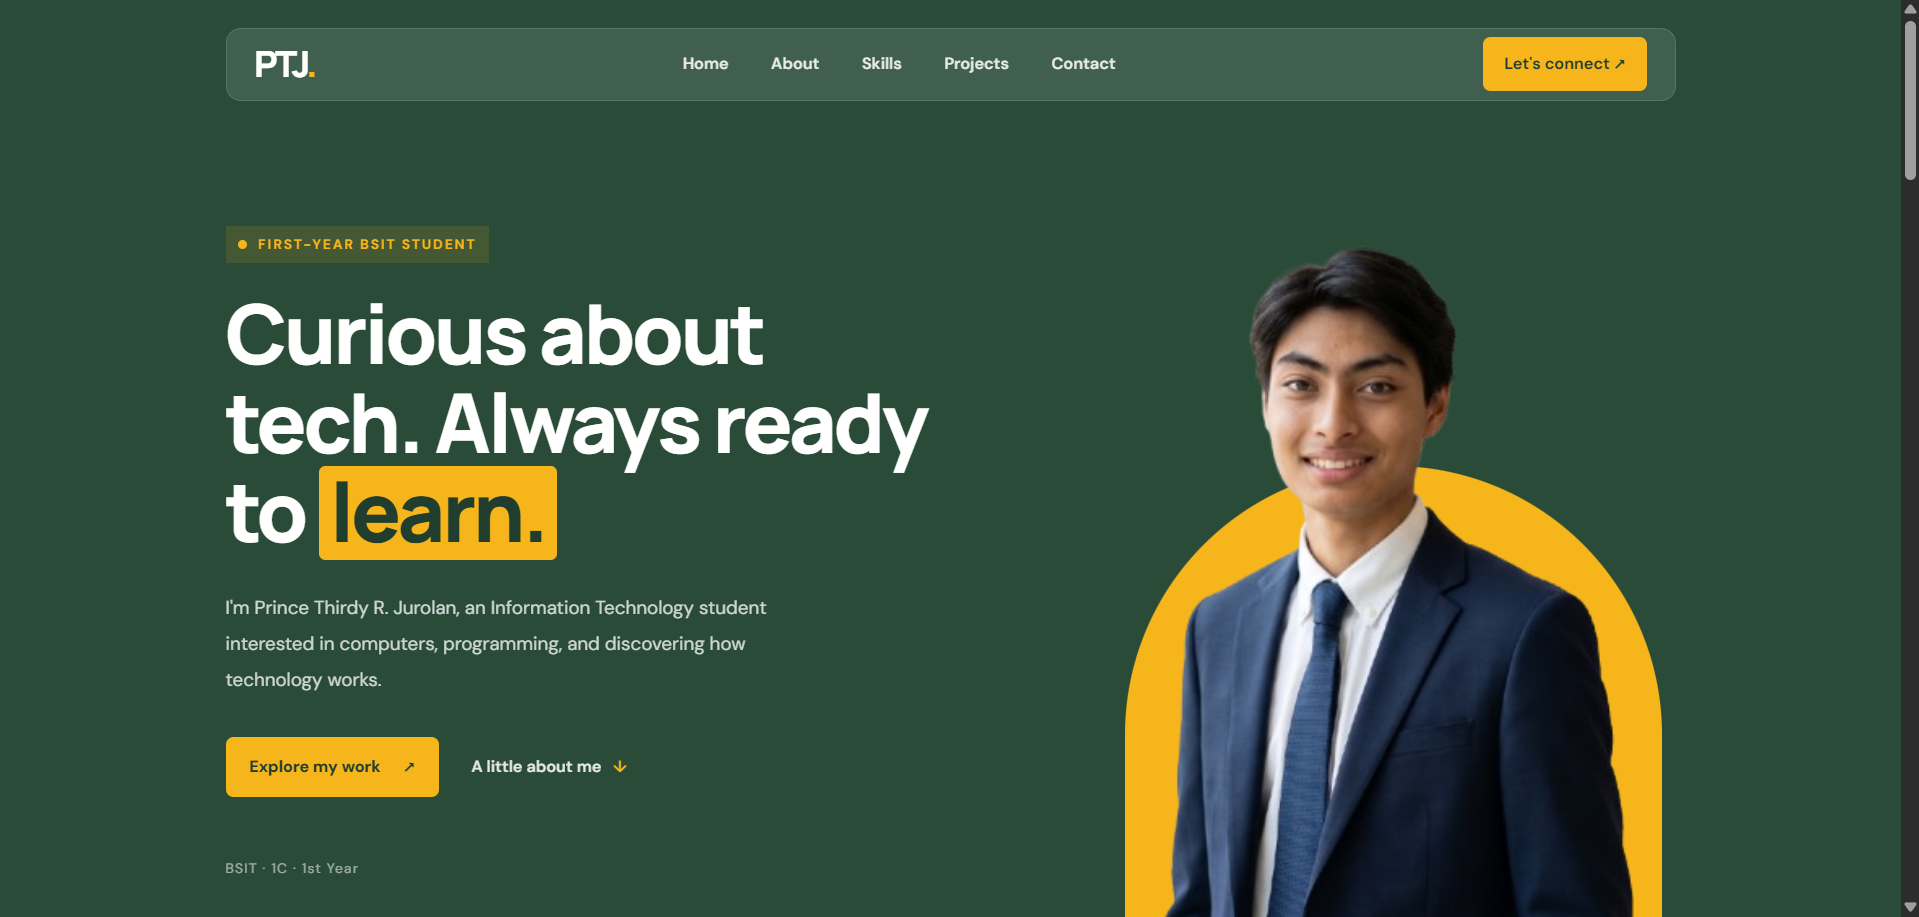
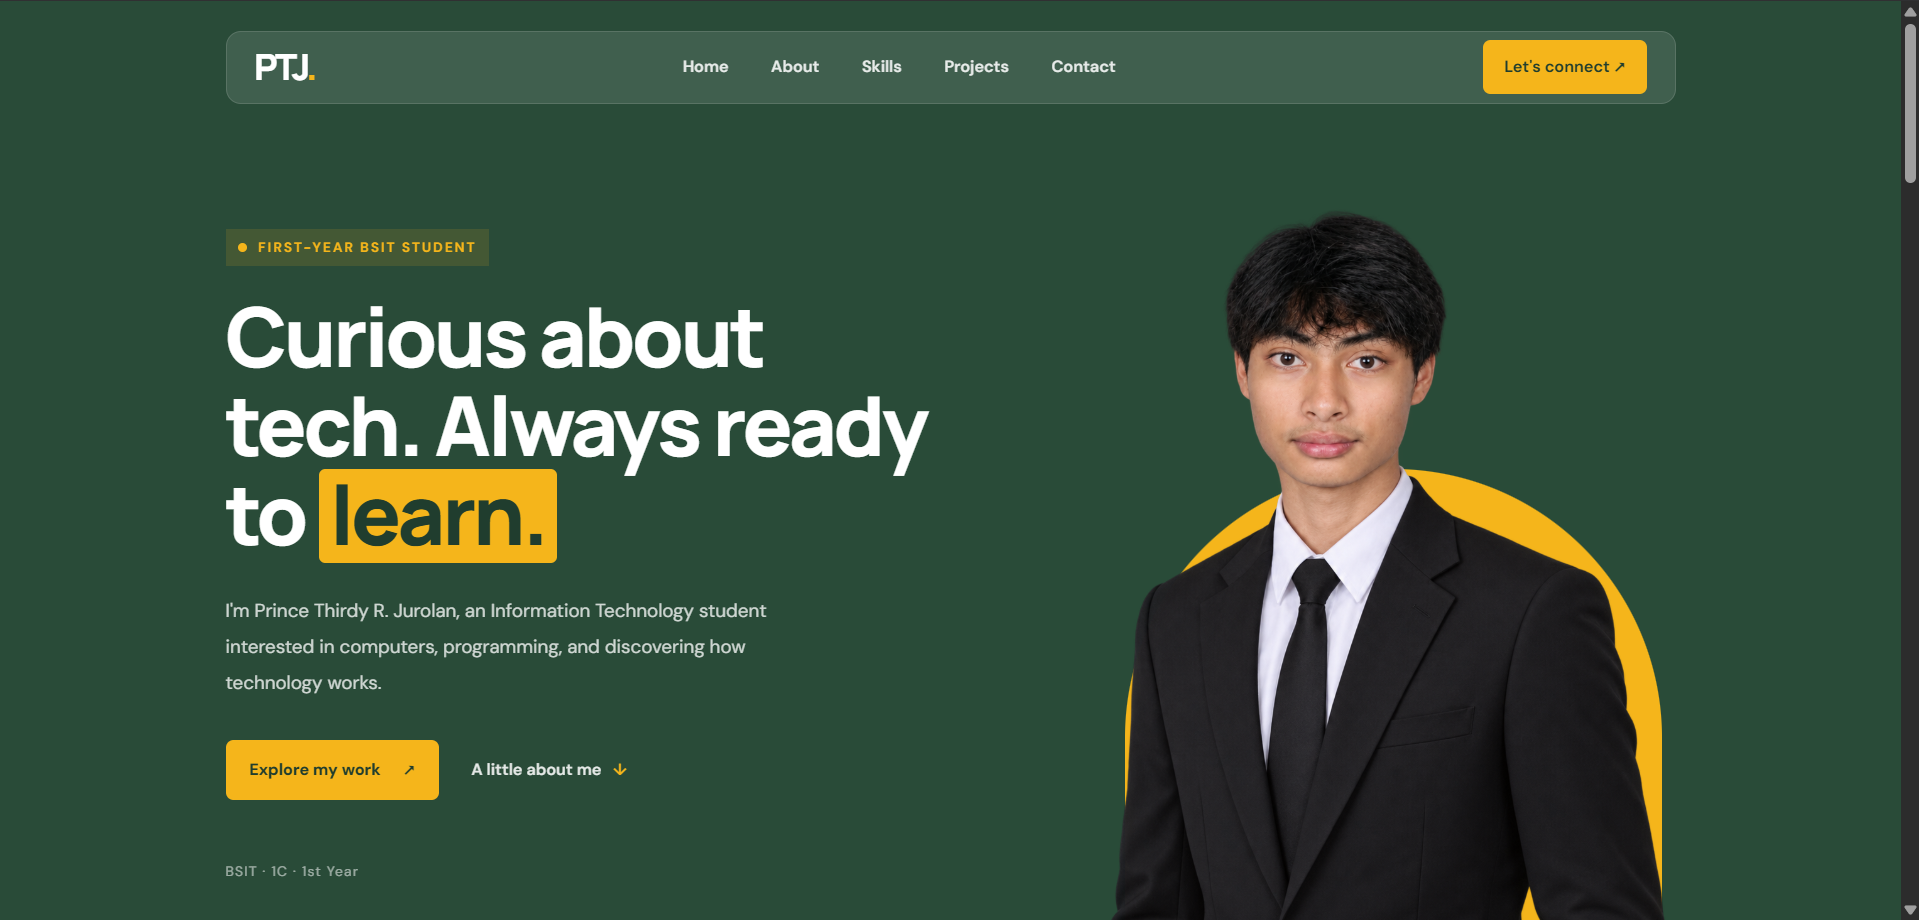
Fix layout responsivenees

diff --git a/index.html b/index.html
@@ -7,7 +7,8 @@
       name="description"
       content="The personal portfolio of Prince Thirdy R. Jurolan, a first-year BSIT student exploring technology and computers."
     />
-    <title>Prince Thirdy R. Jurolan | Portfolio</title>
+    <title>Prince | Portfolio</title>
+    <link rel="icon" type="image/png" href="assets/images/favicon.ico" />
     <link rel="preconnect" href="https://fonts.googleapis.com" />
     <link rel="preconnect" href="https://fonts.gstatic.com" crossorigin />
     <link
@@ -202,13 +203,11 @@
           <div class="project-grid">
             <article class="project-card">
               <div class="project-image project-image-one">
-                <span class="placeholder-mark">01</span>
                 <img
                   src="assets/images/second-project.png"
                   alt="Preview of Prince's second project"
                   class="project-photo"
                 />
-                <span class="project-arrow" aria-hidden="true">↗</span>
               </div>
               <div class="project-info">
                 <div class="project-meta">
@@ -216,23 +215,23 @@
                 </div>
                 <h3>First IT Project</h3>
                 <p>
-                  One of my early project outputs, created as part of my learning
-                  journey in Information Technology. It represents the skills and
-                  ideas I am beginning to put into practice.
+                  One of my early project outputs, created as part of my
+                  learning journey in Information Technology. It represents the
+                  skills and ideas I am beginning to put into practice.
                 </p>
-                <span class="project-tools">Project work · Learning experience</span>
+                <span class="project-tools"
+                  >Project work · Learning experience</span
+                >
               </div>
             </article>
 
             <article class="project-card">
               <div class="project-image project-image-two">
-                <span class="placeholder-mark">02</span>
                 <img
                   src="assets/images/first-project.jpg"
                   alt="Screenshot of Prince's first project"
                   class="project-photo"
                 />
-                <span class="project-arrow" aria-hidden="true">↗</span>
               </div>
               <div class="project-info">
                 <div class="project-meta">
@@ -240,11 +239,13 @@
                 </div>
                 <h3>Second IT Project</h3>
                 <p>
-                  Another project from my student work that gave me an opportunity
-                  to explore ideas, practice my skills, and gain more experience
-                  creating digital outputs.
+                  Another project from my student work that gave me an
+                  opportunity to explore ideas, practice my skills, and gain
+                  more experience creating digital outputs.
                 </p>
-                <span class="project-tools">School activity · Hands-on practice</span>
+                <span class="project-tools"
+                  >School activity · Hands-on practice</span
+                >
               </div>
             </article>
           </div>

diff --git a/style.css b/style.css
@@ -824,8 +824,7 @@ a {
   }
 
   .nav-cta {
-    padding: 9px 10px;
-    font-size: 10px;
+    display: none;
   }
 
   .hero {
